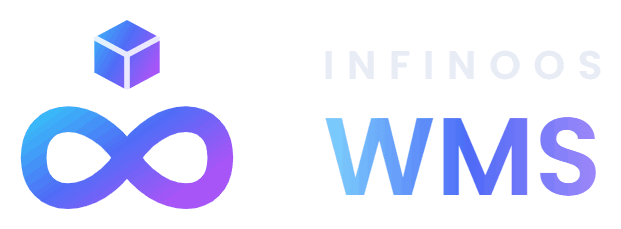
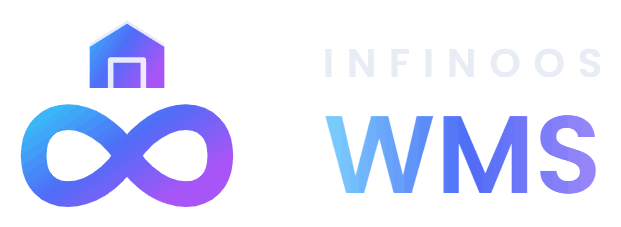
feat: use official lockup in sidebar brand

diff --git a/src/components/branding/infinya-brand.tsx b/src/components/branding/infinya-brand.tsx
@@ -67,17 +67,22 @@ export function InfinyaBrand({
   if (compact) {
     return (
       <div className={cn("min-w-0", className)}>
-        <div className="flex min-w-0 items-center gap-3.5">
-          <BrandGlyph
-            className={cn("h-[52px] w-[52px] flex-shrink-0 rounded-[17px]", markClassName)}
-          />
-          <BrandLockup compact className="min-w-0 flex-1" />
+        <div
+          className={cn(
+            "relative overflow-hidden rounded-[24px] border border-white/10 bg-[#071120]/96 px-4 py-3 shadow-[0_18px_40px_rgba(4,8,22,0.24)]",
+            markClassName,
+          )}
+        >
+          <div className="absolute inset-0 bg-[radial-gradient(circle_at_20%_18%,rgba(110,231,255,0.14),transparent_28%),radial-gradient(circle_at_85%_82%,rgba(217,70,239,0.14),transparent_26%),linear-gradient(180deg,rgba(5,11,25,0.98)_0%,rgba(8,17,34,0.98)_100%)]" />
+          <div className="relative z-10">
+            <BrandLockup compact className="w-full" />
+          </div>
         </div>
 
         {subtitle ? (
           <p
             className={cn(
-              "mt-2 truncate pl-[66px] text-xs font-medium text-slate-600 dark:text-slate-300",
+              "mt-2 truncate text-xs font-medium text-slate-600 dark:text-slate-300",
               subtitleClassName,
             )}
           >